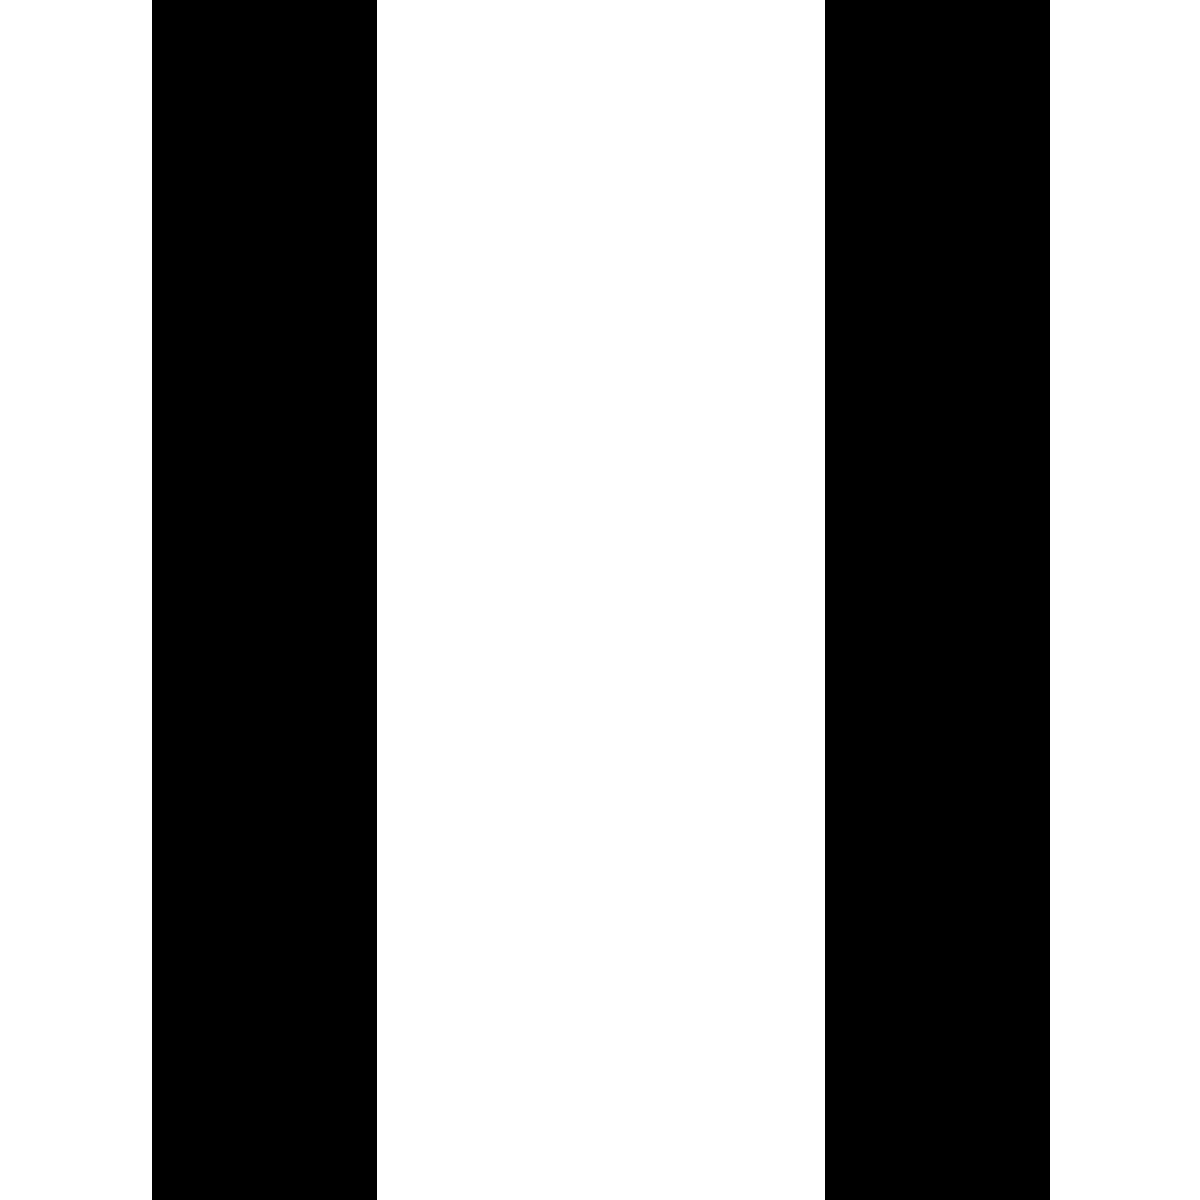
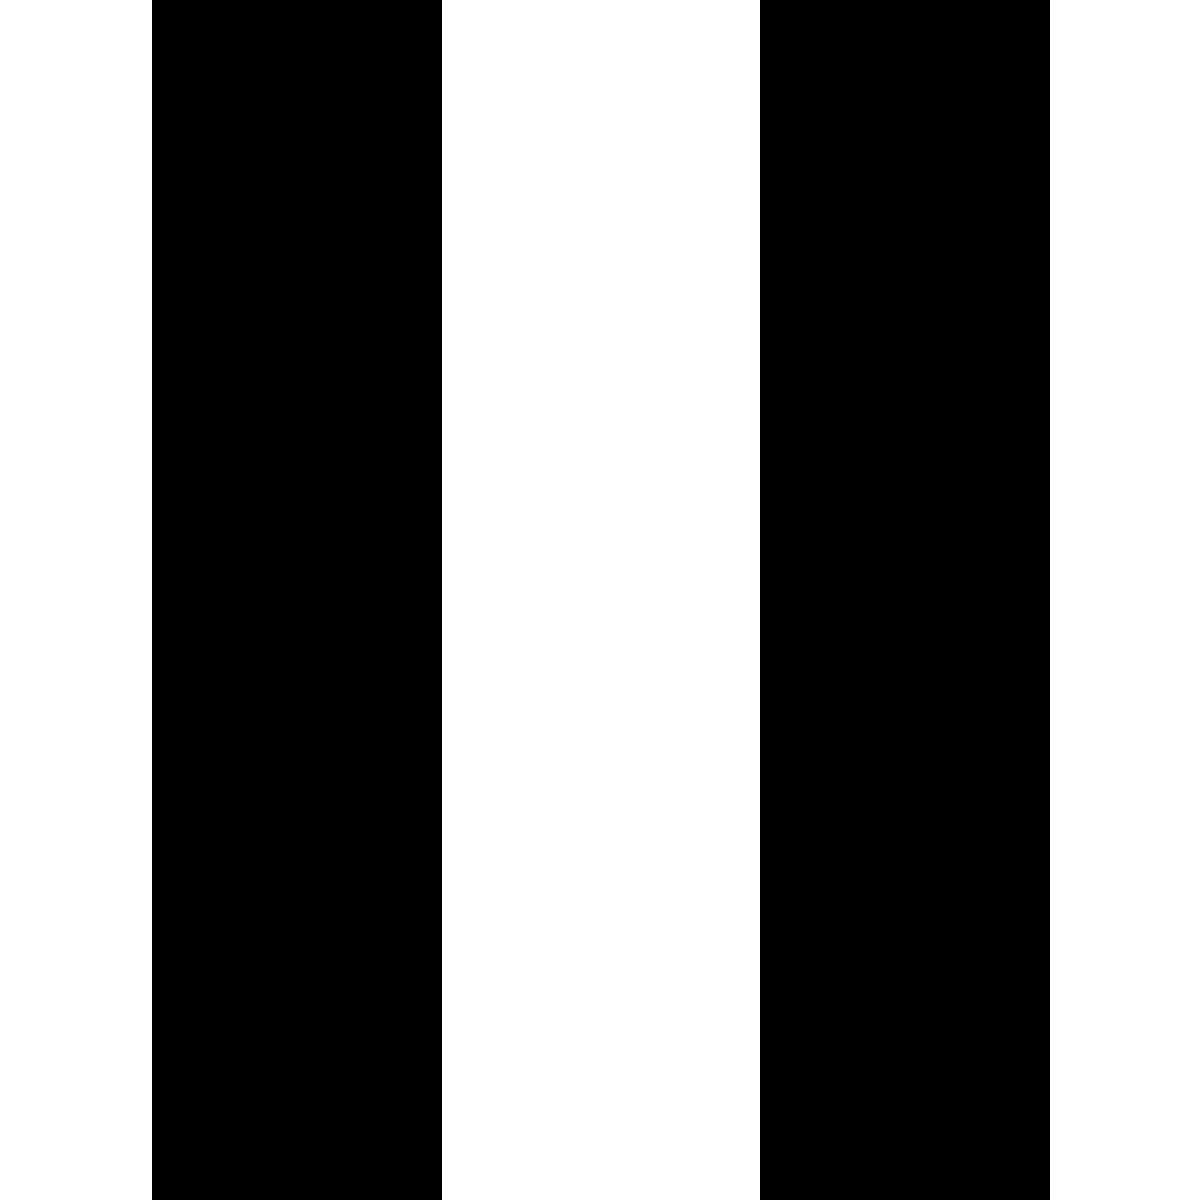
Make player buttons smaller

Changed region(s): [[0.6167, 0.0, 0.7092, 1.0], [0.3083, 0.0, 0.37, 1.0]]

diff --git a/resources/main.css b/resources/main.css
@@ -39,29 +39,29 @@ body {
   cursor: pointer;
   cursor: hand;
   border: 0;
-  width: 50px;
-  height: 50px;
+  width: 30px;
+  height: 30px;
   margin: 10px;
 }
 
 .playButton {
   background: url(images/play.png);
-  background-size: 41px 50px;
+  background-size: 30px 30px;
 }
 
 .pauseButton {
   background: url(images/pause.png);
-  background-size: 50px 50px;
+  background-size: 30px 30px;
 }
 
 .stepForwardsButton {
   background: url(images/step-forwards.png);
-  background-size: 50px 50px;
+  background-size: 30px 30px;
 }
 
 .stepBackwardsButton {
   background: url(images/step-backwards.png);
-  background-size: 50px 50px;
+  background-size: 30px 30px;
 }
 
 button:focus {
